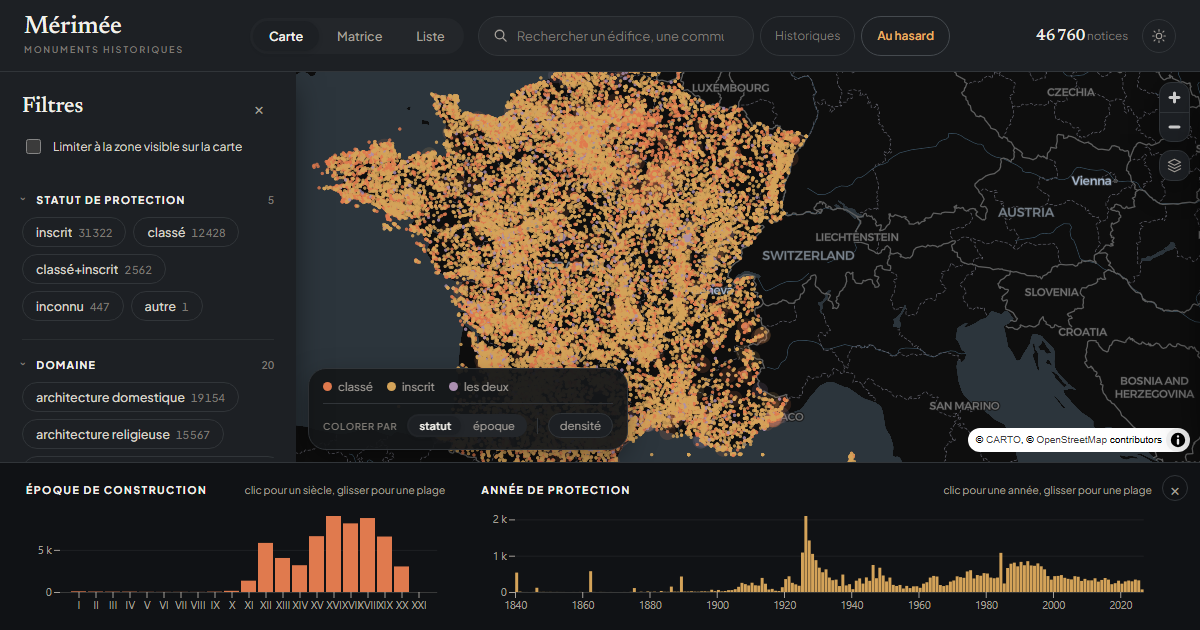
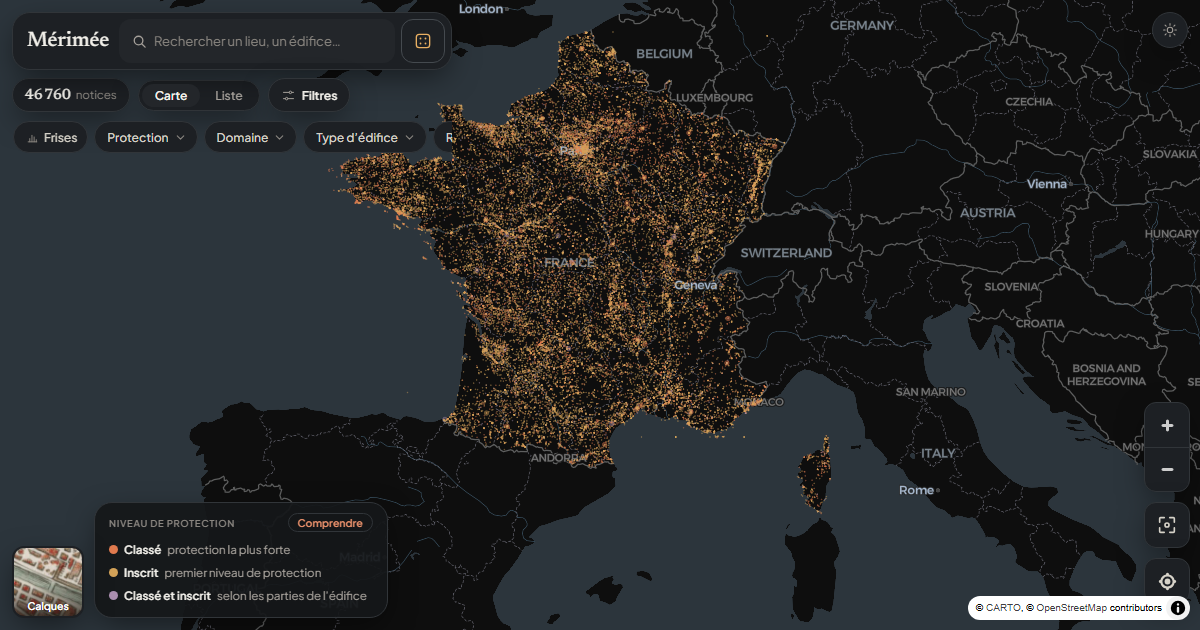
chore(interface): phase 7 — clôture de la refonte
- accessibilité : en-têtes de facette avec aria-expanded et aria-controls
  (ANO-23), fiche et facettes nommées (ANO-24), contour de focus du champ
  de facette (ANO-26), commandes de la carte en français (ANO-28), valeur
  cochée à zéro toujours visible (ANO-59)
- audit visuel complet : 120 captures, aucun échec
- vignette sociale régénérée, légende repliée
- bilan d'exécution dans PLAN_REFONTE_INTERFACE.md

diff --git a/web/src/lib/components/FacetPanel.svelte b/web/src/lib/components/FacetPanel.svelte
@@ -17,6 +17,10 @@
 
   let { facettes, cardinaux, chargement, seules }: Props = $props();
 
+  /** Le panneau vit deux fois — tiroir et menu de puce — : ses identifiants
+   *  doivent rester uniques dans le document. */
+  const instance = $props.id();
+
   type Descripteur = { cle: FacetKey; titre: string; replie?: boolean; filtrable?: boolean };
 
   const SECTIONS: Descripteur[] = [
@@ -122,8 +126,14 @@
     return (filters[CIBLES[cle]] as string[]) ?? [];
   }
 
+  /** Les options affichees, plus les valeurs cochees que les comptes croises
+   *  ne rendent plus : une valeur dont l'effectif tombe a zero disparaissait,
+   *  l'en-tete annoncait « Domaine 2 » sans qu'on puisse la decocher ailleurs
+   *  que par sa puce (ANO-59). Elle reste, a zero. */
   function visibles(cle: FacetKey): Compte[] {
-    return trouvees[cle] ?? facettes[cle] ?? [];
+    const liste = trouvees[cle] ?? facettes[cle] ?? [];
+    const absentes = selection(cle).filter((v) => !liste.some((c) => c.valeur === v));
+    return absentes.length ? [...absentes.map((valeur) => ({ valeur, n: 0 })), ...liste] : liste;
   }
 
   /** Ce qu'annonce le titre d'une section : le total des valeurs distinctes,
@@ -136,13 +146,14 @@
   }
 </script>
 
-<aside class="panneau" class:occupe={chargement}>
+<aside class="panneau" class:occupe={chargement} aria-label="Facettes">
   {#each sections as section (section.cle)}
     {@const actives = selection(section.cle)}
     {@const ouverte = ouvertes.has(section.cle)}
     {@const options = visibles(section.cle)}
     <section>
-      <button class="titre" onclick={() => basculerSection(section.cle)}>
+      <button class="titre" aria-expanded={ouverte} aria-controls="{instance}-{section.cle}"
+              onclick={() => basculerSection(section.cle)}>
         <span class="chevron" class:ouvert={ouverte}>›</span>
         <span class="nom-section">{section.titre}</span>
         {#if actives.length}<em>{actives.length}</em>{/if}
@@ -160,7 +171,7 @@
             bind:value={recherches[section.cle]}
           />
         {/if}
-        <ul>
+        <ul id="{instance}-{section.cle}">
           {#each options as item (item.valeur)}
             <li>
               <!-- Le statut de protection est la seule facette au code couleur :
@@ -328,8 +339,11 @@
     }
   }
 
+  /* Un contour de 2 px, et non le seul filet de 1 px qui virait a l'ocre :
+     3,21:1, trop peu pour qu'on voie ou est le focus (ANO-26). */
   .filtre:focus {
-    outline: none;
+    outline: 2px solid var(--inscrit);
+    outline-offset: -2px;
     border-color: var(--inscrit);
   }
 

diff --git a/web/src/lib/components/MonumentMap.svelte b/web/src/lib/components/MonumentMap.svelte
@@ -455,11 +455,14 @@
       dragRotate: false,
       pitchWithRotate: false,
       touchPitch: false,
-      // Seuls les libelles de la geolocalisation sont traduits : ceux du zoom
-      // restent ceux de MapLibre, que la suite e2e et l'audit lisent deja.
+      // Toutes les commandes parlent francais (ANO-28) : un lecteur d'ecran
+      // annoncait « Zoom in » au milieu d'une interface en francais.
       locale: {
         'GeolocateControl.FindMyLocation': 'Me localiser',
-        'GeolocateControl.LocationNotAvailable': 'Position non disponible'
+        'GeolocateControl.LocationNotAvailable': 'Position non disponible',
+        'NavigationControl.ZoomIn': 'Zoomer',
+        'NavigationControl.ZoomOut': 'Dézoomer',
+        'AttributionControl.ToggleAttribution': 'Afficher ou masquer les mentions'
       }
     });
 

diff --git a/web/src/lib/components/DetailPanel.svelte b/web/src/lib/components/DetailPanel.svelte
@@ -339,7 +339,7 @@
   }
 </script>
 
-<aside class="fiche" tabindex="-1" bind:this={noeud}
+<aside class="fiche" tabindex="-1" bind:this={noeud} aria-label="Fiche de la notice"
        onscroll={() => { if (noeud && noeud.scrollTop > 0) ondefile?.(); }}>
   {#if !reference}
     <div class="attente">

diff --git a/PLAN_REFONTE_INTERFACE.md b/PLAN_REFONTE_INTERFACE.md
@@ -315,3 +315,40 @@ Après, les phases 3 et 5 peuvent tourner en `worktree` séparés.
 Les phases 0 à 3 livrent chacune un gain visible sans toucher à la structure. La
 légende, qui gêne les visiteurs aujourd'hui, reçoit son texte dès la phase 0 et sa
 forme complète en phase 3.
+
+## 8. Bilan d'exécution (2026-10-06)
+
+Branche `refonte-interface`, un commit par phase, chacun avec `npm run check` à 0/0,
+les tests unitaires, la suite e2e complète et `pytest` verts.
+
+| Phase | Commit | Ce qui a été livré |
+|---|---|---|
+| 0 | `420b416` | défilement mobile (ANO-56), historique (ANO-03, et retour arrière qui lisait `page.url` figé), cadrage de départ, texte de la légende, tiroir inerte, « Au hasard » sans échec muet, lien copié sans la position |
+| 1 | `c265671` | suppression de la matrice |
+| 2 | `281f11b` | caméra (vol « Au hasard », rapprochement depuis la liste, `?ref=` centré), épingle, infobulle, `has_photo`, défaut d'occlusion de la feuille mobile |
+| 3 | `f26dbe9` | vignette des calques, panneau à tuiles, photo aérienne, légende complète (définitions, effectifs, filtre au toucher) |
+| 4a | `f5e987c` | carte plein écran, bloc du haut flottant, volet unique liste ↔ fiche ↔ filtres, feuille à trois crans, plus d'onglets, commandes en bas à droite |
+| 4b | `4580be9` | puces de filtres, cadrage sur un lieu choisi, liste chargée seulement ouverte |
+| 5 | `cffab00` | recherche à suggestions, un geste par famille, raccourcis, ligatures |
+| 6 | `a0113ea` | fiche à actions, voisins, flèches photo ; liste avec siècle, A–Z, pagination, survol |
+| 7 | (ce commit) | ANO-23, 24, 26, 28, 59 ; audit visuel (120 captures, aucun échec) ; vignette sociale |
+
+**Écarts au plan, et pourquoi :**
+
+- *Phase 4 n'a pas eu de « 4c » séparée* : la feuille à trois crans est le volet
+  lui-même sur téléphone, elle est venue avec lui.
+- *« Frises » est une puce*, en tête de la rangée, et non une entrée par « Époque » et
+  « Protection » : un seul panneau porte les deux frises, une seule puce l'ouvre.
+- *Une commune n'est pas un filtre* : la choisir cadre la carte sans rien restreindre,
+  `monuments` n'ayant pas de facette « commune ».
+- *Le partage natif n'apparaît qu'au doigt* et là où le système le fournit ; « Copier
+  le lien » reste partout.
+- *Pas d'agents Sonnet* : chaque phase touchait `+page.svelte` ou `MonumentMap`, et la
+  migration des tests suivait les pièges au fil de l'eau — rien de mécanique à déléguer.
+
+**À vérifier sur un vrai téléphone**, ce que Chromium sans tête ne prouve pas :
+
+- le défaut d'occlusion de la feuille (bande du haut de la carte non dessinée) : relevé
+  et corrigé en sans tête, jamais observé sur appareil ;
+- la fluidité du vol « Au hasard » avec 44 484 points ;
+- la lisibilité du liseré des points sur la photo aérienne.

diff --git a/docs/conception-interface.md b/docs/conception-interface.md
@@ -464,6 +464,14 @@ sur 240 fichiers) sont dans `docs/conception-photographies.md`.
 recréé dans chaque composant qui affiche un compte — `+page.svelte` et `FacetPanel`
 le partageaient déjà en double avant cette extraction, comme `romain`.
 
+**Les en-têtes de section de facette portent `aria-expanded` et `aria-controls`**
+(ANO-23), vers un identifiant préfixé par `$props.id()` : le panneau vit deux fois, dans
+le tiroir et dans le menu d'une puce, et ses identifiants doivent rester uniques. Une
+valeur cochée dont l'effectif croisé tombe à zéro reste affichée, à zéro, pour qu'on
+puisse la décocher là où on l'a cochée (ANO-59). La fiche et le panneau des facettes
+sont nommés (`aria-label`, ANO-24) ; le champ de recherche de facette prend un contour
+de 2 px au focus, plus le seul filet de 1 px (ANO-26).
+
 **Le libellé d'une section de facette vit dans `.nom-section`.** Un nœud de plus, pour
 une raison de mise en page : `.titre` est un flex à quatre enfants, et deux
 `margin-left: auto` concurrents (badge de sélection, cardinalité) se partageraient

diff --git a/docs/conception-carte.md b/docs/conception-carte.md
@@ -169,8 +169,9 @@ repris :
 - **la position écrite par la carte vit dans `state/position.svelte.ts`**, jamais dans
   l'URL ni dans `localStorage` ; l'erreur (refus, indisponible, délai) s'affiche en
   surface au haut de la scène et s'efface seule ;
-- libellés traduits par l'option `locale` pour la géolocalisation seulement — ceux du
-  zoom restent ceux que l'audit lit déjà.
+- libellés traduits par l'option `locale` — géolocalisation, zoom (« Zoomer »,
+  « Dézoomer ») et mentions : un lecteur d'écran annonçait « Zoom in » au milieu d'une
+  interface en français (ANO-28).
 
 Les clés de lecture portent `.cle` : le test qui vérifie que la légende suit le mode
 de coloration compte ces clés — trois par statut, cinq par époque. La ligne « Non
